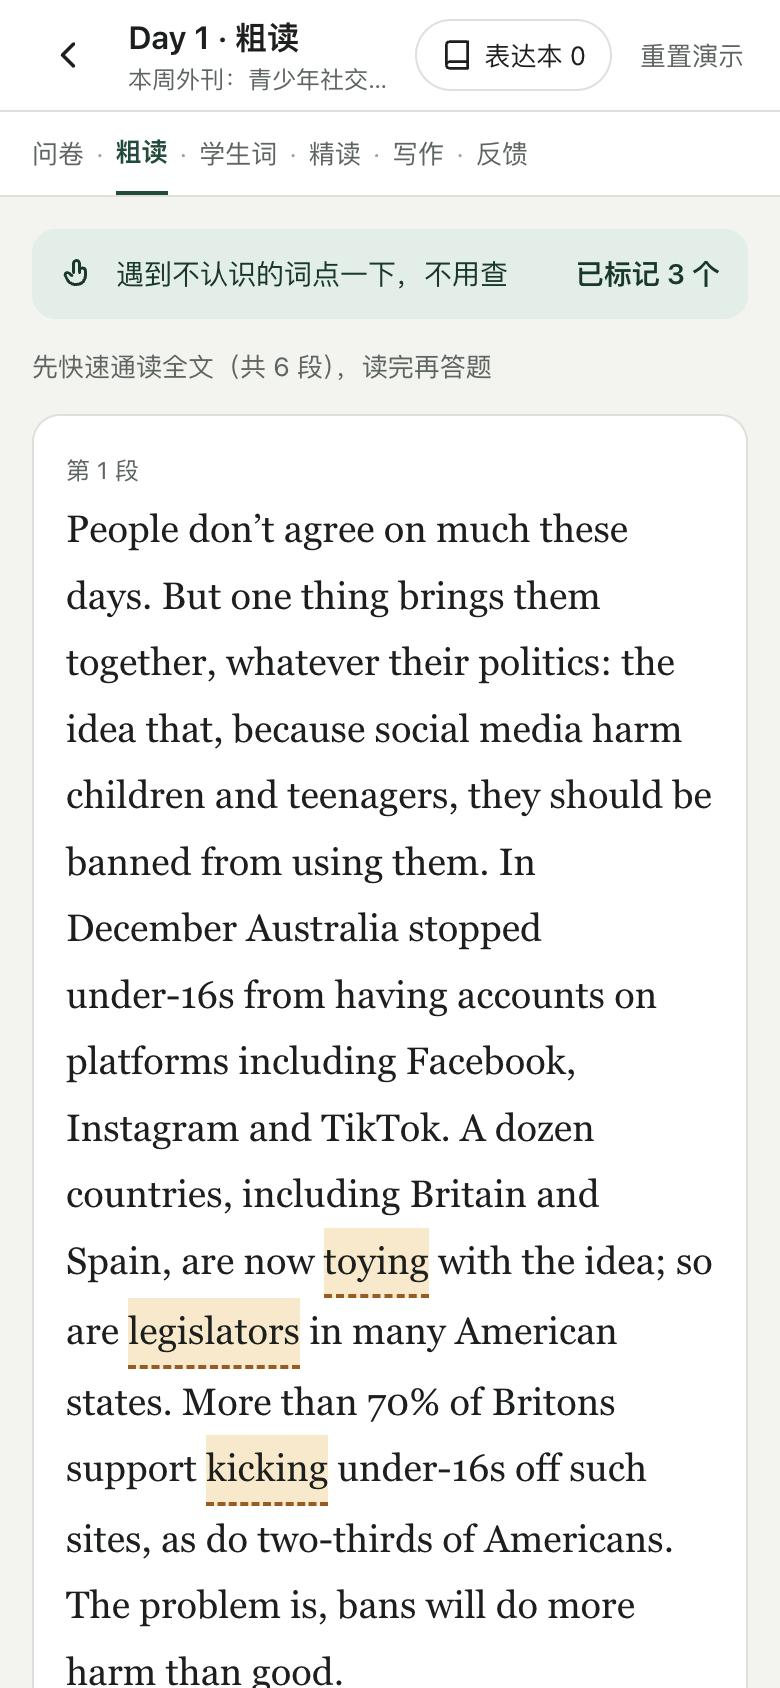
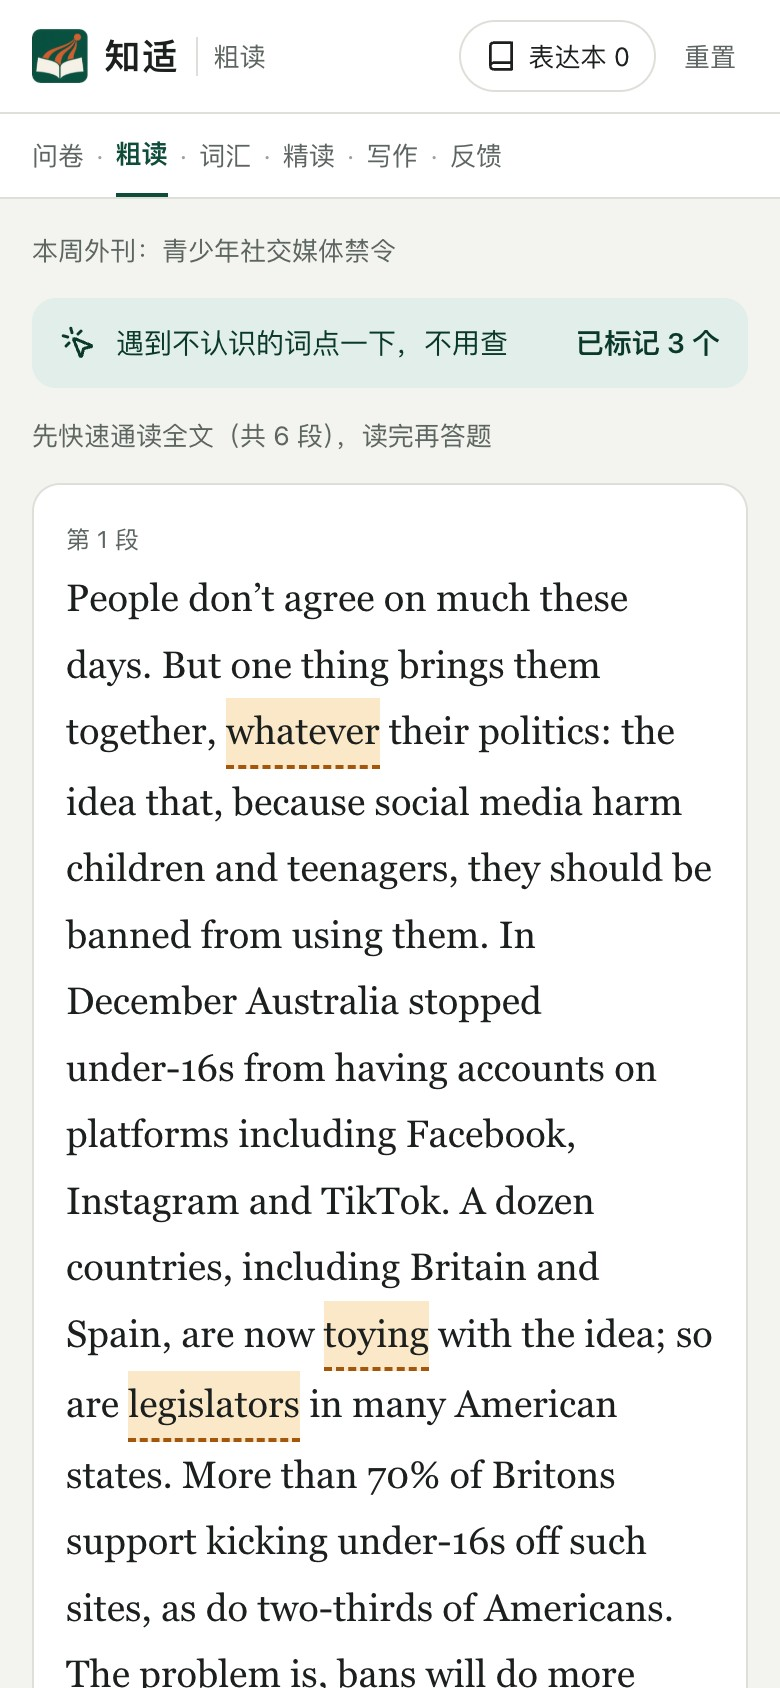
Screens 01–03 retaken on production (skim taps, skim hint after a wrong gist, 核心词 guess card); 03 renamed to 03-词汇-先猜后看

Changed region(s): [[0.0308, 0.0, 0.9538, 1.0], [0.7385, 0.154, 0.9231, 0.2156]]

diff --git a/docs/assets/screens/README.md b/docs/assets/screens/README.md
@@ -4,9 +4,9 @@
 
 | 文件 | 画面 | 建议用在 |
 |---|---|---|
-| `01-粗读-通读全文点生词.jpg` | 粗读：先通读全文，不认识的词点一下（已标记 3 个） | PPT「学生怎么用」 |
-| `02-粗读-提交后答错给提示.jpg` | 粗读答题：英文段意题，答错后在题下给出这一段并高亮主题句 | PPT「卡住才给提示」 |
-| `03-学生词-先猜后看.jpg` | **旧版，待重截**：词汇卡片，老师核心词「先猜后看」（英文题干、中文选项）。图上还是旧样式：步骤叫「学生词」、标签是「老师必练」、没有词性（现在是「词汇」「核心词」，卡片上标了词性） | 重截后用在 PPT「学生怎么用」 |
+| `01-粗读-通读全文点生词.jpg` | 粗读（10-03 晚上在线上重截，手机两倍图）：先通读全文，不认识的词点一下，第 1 段里点了 whatever、toying、legislators，顶上「已标记 3 个」；步骤条是「问卷 · 粗读 · 词汇 · 精读 · 写作 · 反馈」 | PPT「学生怎么用」 |
+| `02-粗读-提交后答错给提示.jpg` | 粗读答题（10-03 晚上在线上重截，手机两倍图）：英文段意题，第 2 段故意答错，选项标红，题目下面「再读一下这一段里高亮的那一句，作者的意思在这里」，给出这一段原文并高亮主题句 | PPT「卡住才给提示」 |
+| `03-词汇-先猜后看.jpg` | 词汇卡片（10-03 晚上在线上重截，手机两倍图；文件名原来是 03-学生词-先猜后看）：「核心词」toy with（phr.），例句里加粗，「先猜一猜」英文题干、中文选项，猜之前认识 / 不认识点不了 | PPT「学生怎么用」 |
 | `04-评委模式-你的这一份.png` | 评委模式（10-03 晚上在线上重截，1280×900 两倍图）：3 道快题第 1 题故意答错后，「评委的这一份」和「同学 B（长句难）的这一份」并排停在第 4 段。左边 S16「你第一次就读懂了这句，老师的讲解已收起」，S17 标着「重点句」、下面是「给你」便签（pending 猜错了，引的是老师讲义原话）；右边同学 B 的 S16 是「上次你自己读懂了类似的句子，这次先试一下」，答题前不显示老师的讲解 | **PPT 核心页**、提交平台首图 |
 | `05-老师端-示例班级.png` | 老师端：今天点评这几个人 + 卡点热力图（页面标着「示例数据」） | PPT「回响给老师」；有朋友真实数据后再换一张 |
 | `06-首页-电脑.png` | 首页（10-03 凌晨重截，1440×900 两倍图）：「把讲义里的『如果』，改成『你』」，下面一句大白话说清知适是什么、一行浅色原标语，再下面「我是学生」「我是老师」两张大卡片、「上传一篇文章 →」和「演示模式」开关（开着），右边是「如果 → 给你」对比卡 | 提交平台封面备选 |
@@ -15,6 +15,6 @@
 | `09-写作-表达检查.jpg` | 写作（10-03 凌晨重截，手机图）：用上本周表达，AI 判断用得对不对；下面「可能写错的地方」只引学生写的几个词、标出类型、提示该检查什么，不改写 | PPT「表达链」 |
 | `10-粗读-文章是怎么写的.jpg` | 粗读（手机图）：段意题全答对后出现「这篇文章是怎么写的」：骨架「提出观点 → 让步 → 反驳 → 给理由」，每段的作用和一句概括（AI 起草，供参考） | PPT「学生怎么用」或答辩时讲文章结构 |
 
-注意：01、02 的步骤条上也还是旧名「学生词」（10-02 改成「词汇」），用之前最好重截。老师端那张是示例数据，PPT 上要写明「示例」，或者等朋友试用满 5 人后换成真实数据截图。
+注意：01–03 已在 10-03 晚上按新界面重截（步骤条是「词汇」）。老师端那张是示例数据，PPT 上要写明「示例」，或者等朋友试用满 5 人后换成真实数据截图。
 
-04、08 已在 10-03 晚上按新界面重截（标签是「重点句」，issue #24）。
+01–04、08 已在 10-03 晚上按新界面重截（步骤条「词汇」、标签「重点句」）。
